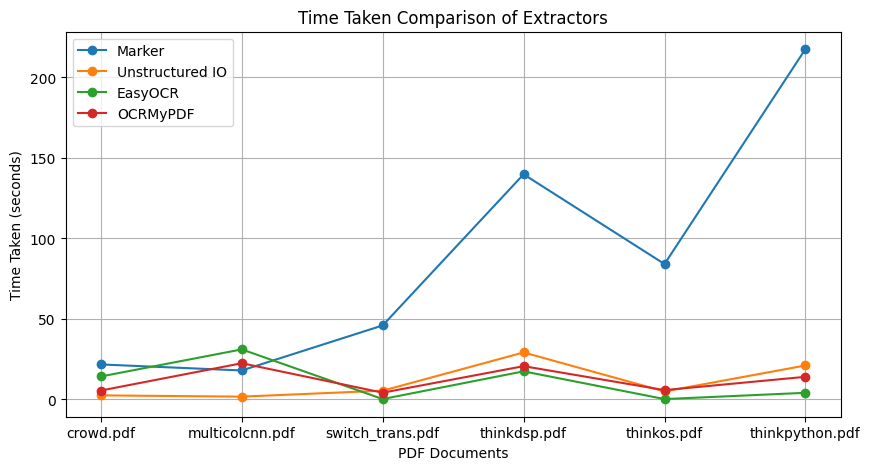
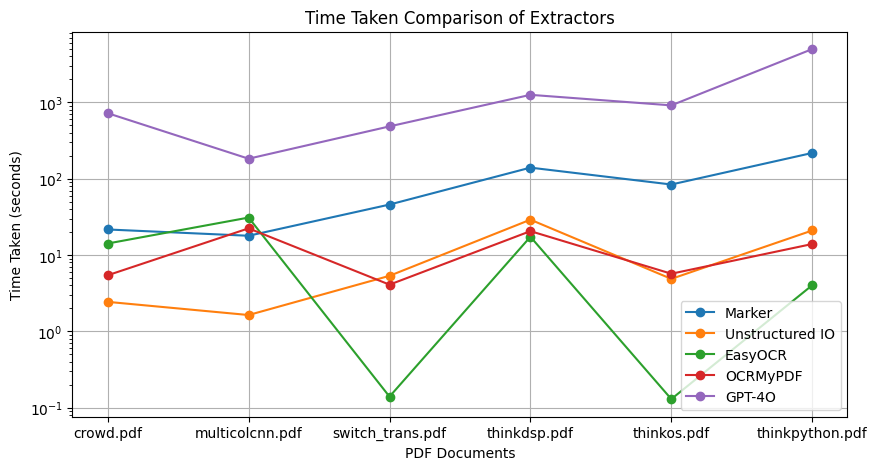
add gpt4o pdf benchmark

diff --git a/docs/docs/usecases/pdf_extraction.md b/docs/docs/usecases/pdf_extraction.md
@@ -164,25 +164,25 @@ PDF is a complex data type, we recommend you try out all extractors on a represe
 
 ### Accuracy Comparison
 
-| PDF Document          | Marker Score | Unstructured IO Score | EasyOCR Score        | OCRmyPDF Score       |
-|-----------------------|--------------|-----------------------|----------------------|----------------------|
-| crowd.pdf             | 0.5391       | 0.5224                | 0.5486               | 0.5792               |
-| multicolcnn.pdf       | 0.5409       | 0.5213                | 0.5333               | 0.5627               |
-| switch_trans.pdf      | 0.5191       | 0.4730                | 0.5198               | 0.5198               |
-| thinkdsp.pdf          | 0.6810       | 0.6625                | 0.6755               | 0.6740               |
-| thinkos.pdf           | 0.7368       | 0.6855                | 0.6781               | 0.7050               |
-| thinkpython.pdf       | 0.6910       | 0.6822                | 0.6875               | 0.6161               |
+| PDF Document          | Marker Score | Unstructured IO Score | EasyOCR Score | OCRmyPDF Score | OpenAI GPT-4o Score |
+|-----------------------|--------------|----------------------|----------------|-----------------|---------------------|
+| crowd.pdf             | 0.5391       | 0.5224               | 0.5486         | 0.5792          | 0.5556              |
+| multicolcnn.pdf       | 0.5409       | 0.5213               | 0.5333         | 0.5627          | 0.3981              |
+| switch_trans.pdf      | 0.5191       | 0.4730               | 0.5198         | 0.5198          | 0.4358              |
+| thinkdsp.pdf          | 0.6810       | 0.6625               | 0.6755         | 0.6740          | 0.6818              |
+| thinkos.pdf           | 0.7368       | 0.6855               | 0.6781         | 0.7050          | 0.6813              |
+| thinkpython.pdf       | 0.6910       | 0.6822               | 0.6875         | 0.6161          | 0.6666              |
 
 ### Time Taken Comparison
 
-| PDF Document          | Marker Time (s) | Unstructured IO Time (s) | EasyOCR Time (s)     | OCRmyPDF Time (s)    |
-|-----------------------|------------------|--------------------------|----------------------|----------------------|
-| crowd.pdf             | 21.65            | 2.44                     | 14.18                | 5.44                 |
-| multicolcnn.pdf       | 17.91            | 1.64                     | 31.00                | 22.40                |
-| switch_trans.pdf      | 45.90            | 5.35                     | 0.14                 | 4.10                 |
-| thinkdsp.pdf          | 139.80           | 29.10                    | 17.37                | 20.59                |
-| thinkos.pdf           | 84.04            | 4.88                     | 0.13                 | 5.70                 |
-| thinkpython.pdf       | 217.60           | 21.00                    | 4.03                 | 13.96                |
+| PDF Document          | Marker Time (s) | Unstructured IO Time (s) | EasyOCR Time (s) | OCRmyPDF Time (s) | OpenAI GPT-4o Time (s) |
+|-----------------------|-----------------|--------------------------|------------------|-------------------|------------------------|
+| crowd.pdf             | 21.65           | 2.44                     | 14.18            | 5.44              | 722.21                 |
+| multicolcnn.pdf       | 17.91           | 1.64                     | 31.00            | 22.40             | 182.97                 |
+| switch_trans.pdf      | 45.90           | 5.35                     | 0.14             | 4.10              | 484.94                 |
+| thinkdsp.pdf          | 139.80          | 29.10                    | 17.37            | 20.59             | 1256.39                |
+| thinkos.pdf           | 84.04           | 4.88                     | 0.13             | 5.70              | 914.21                 |
+| thinkpython.pdf       | 217.60          | 21.00                    | 4.03             | 13.96             | 4991.86                |
 
 ### Visual Comparisons
 
@@ -201,6 +201,7 @@ PDF is a complex data type, we recommend you try out all extractors on a represe
    - Marker extractor consistently provides high accuracy scores across all PDF documents.
    - EasyOCR and OCRMyPDF shows competetive accuracy across all the documents. 
    - Unstructured IO is fractionally better than EasyOCR in one of the books, and from OCRMyPDF on another.
+   - OpenAI GPT-4o performs well for code based texts however it performs average for regular texts.
 
 **Time Efficiency**:
 
@@ -208,6 +209,7 @@ PDF is a complex data type, we recommend you try out all extractors on a represe
    - EasyOCR shows extreme variability in processing times, being exceptionally fast for some documents and very slow for others.
    - Marker extractor, despite providing high accuracy, is significantly slower compared to the other extractors.
    - OCRmyPDF shows moderate time efficiency, balancing between speed and accuracy.
+   - OpenAI GPT-4o takes by far the longest time and is best avoided for pdf extraction unless necessary. 
 
 **Extractor Recommendations**:
 
